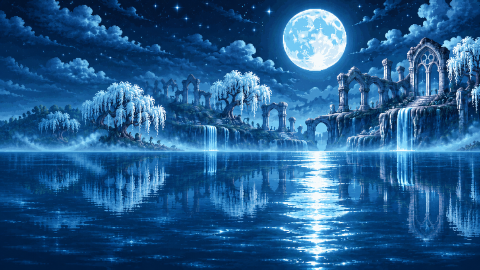
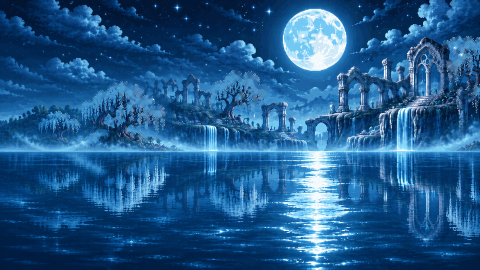
Moonlit Lake: the water ripples and the willows' hanging strands sway
- ripple: the far layer's lake (and its reflections) is redrawn in thin
  bands nudged sideways by a slow moving wave, gentler at the far shore.
- sway: the big willow's hanging curtain (near layer) and the far willow
  canopies are lifted out of their layers and swing, still at the top and
  most at the tips; gaps left in the solid far layer are filled from the
  surrounding leaves. tools/bgfx.py keeps untouched copies of every layer it
  edits in assets_raw/bg_layers/pristine and rebuilds from them.

diff --git a/assets/bgfx/bgfx.js b/assets/bgfx/bgfx.js
@@ -1,2 +1,2 @@
 // generated by tools/bgfx.py: what moves in each background (see FX there)
-window.BGFX = {"hall":[{"k":"sprite","L":1,"s":"banner_hall","fps":6,"cx":146,"top":42,"n":6},{"k":"sprite","L":1,"s":"banner_hall","fps":6,"cx":335,"top":42,"t0":0.4,"n":6},{"k":"drift","L":3,"s":"dust","fps":3,"count":14,"area":[0,10,480,220],"vx":3,"vy":-1.5,"wob":4,"a":0.55,"n":4}],"cave":[{"k":"flow","s":"waterflow","fps":10,"a":0.8,"L":1,"m":"mask_cave_0","r":[137,93,13,57],"n":6},{"k":"flow","s":"waterflow","fps":10,"a":0.8,"L":1,"m":"mask_cave_1","r":[155,162,17,51],"n":6},{"k":"flow","s":"waterflow","fps":10,"a":0.8,"L":1,"m":"mask_cave_2","r":[290,122,13,68],"n":6},{"k":"drift","L":2,"s":"firefly","fps":6,"count":10,"area":[20,40,440,170],"vx":2,"vy":-1,"wob":6,"a":0.28,"add":1,"sc":0.5,"tint":"hue-rotate(60deg)","n":4}],"crypt":[{"k":"scroll","L":2,"s":"fog","y":184,"speed":6,"a":0.45,"tint":"hue-rotate(250deg) saturate(0.8)","n":1},{"k":"drift","L":3,"s":"dust","fps":3,"count":14,"area":[0,10,480,220],"vx":3,"vy":-1.5,"wob":4,"a":0.55,"n":4}],"forge":[{"k":"flow","L":1,"s":"lavaflow","fps":9,"a":0.8,"m":"mask_forge_0","r":[186,62,36,107],"n":6},{"k":"flow","L":1,"s":"lavaflow","fps":9,"a":0.8,"m":"mask_forge_1","r":[290,148,44,115],"n":6},{"k":"flow","L":1,"s":"lavaflow","fps":9,"a":0.8,"m":"mask_forge_2","r":[298,112,44,44],"n":6},{"k":"flow","L":1,"s":"lavaflow","fps":9,"a":0.8,"m":"mask_forge_3","r":[363,167,72,89],"n":6},{"k":"flow","L":1,"s":"lavaflow","fps":9,"a":0.8,"m":"mask_forge_4","r":[120,218,41,33],"n":6},{"k":"flow","L":0,"s":"lavaflow","fps":9,"a":0.8,"m":"mask_forge_5","r":[194,75,25,64],"n":6},{"k":"flow","L":0,"s":"lavaflow","fps":9,"a":0.8,"m":"mask_forge_6","r":[242,114,18,17],"n":6},{"k":"drift","L":3,"s":"ember","fps":8,"count":34,"area":[0,60,480,210],"vx":2,"vy":-14,"wob":5,"a":0.9,"add":1,"n":4}],"hollow":[{"k":"scroll","L":0,"s":"fog","y":140,"speed":4,"a":0.5,"n":1},{"k":"scroll","L":1,"s":"fog","y":200,"speed":9,"a":0.4,"n":1},{"k":"drift","L":2,"s":"firefly","fps":5,"count":8,"area":[30,60,420,160],"vx":1,"vy":-1,"wob":8,"a":0.25,"add":1,"sc":0.5,"tint":"saturate(0.2) brightness(1.2)","n":4}],"sanctum":[{"k":"flow","L":0,"s":"runeflow","fps":8,"add":1,"m":"mask_sanctum_0","r":[282,32,111,116],"n":6},{"k":"scroll","L":1,"s":"fog","y":205,"speed":5,"a":0.4,"tint":"hue-rotate(240deg) saturate(1.3)","n":1},{"k":"drift","L":2,"s":"firefly","fps":6,"count":10,"area":[20,30,440,190],"vx":1,"vy":-3,"wob":5,"a":0.25,"add":1,"sc":0.5,"tint":"hue-rotate(220deg) saturate(1.4)","n":4}],"thornwood":[{"k":"scroll","L":0,"s":"fog","y":165,"speed":4,"a":0.35,"tint":"hue-rotate(70deg)","n":1},{"k":"drift","L":2,"s":"firefly","fps":6,"count":12,"area":[20,50,440,180],"vx":2,"vy":-1,"wob":7,"a":0.25,"add":1,"sc":0.5,"n":4}],"glade":[{"k":"flow","s":"waterflow","fps":10,"a":0.8,"L":1,"m":"mask_glade_0","r":[236,137,30,49],"n":6},{"k":"flow","s":"waterflow","fps":10,"a":0.8,"L":1,"m":"mask_glade_1","r":[292,105,28,73],"n":6},{"k":"flow","s":"waterflow","fps":10,"a":0.8,"L":1,"m":"mask_glade_2","r":[344,102,26,52],"n":6},{"k":"flow","s":"waterflow","fps":10,"a":0.8,"L":1,"m":"mask_glade_3","r":[291,186,26,38],"n":6},{"k":"drift","L":2,"s":"firefly","fps":6,"count":12,"area":[20,40,440,190],"vx":2,"vy":-1,"wob":7,"a":0.25,"add":1,"sc":0.5,"tint":"hue-rotate(280deg) saturate(1.2)","n":4},{"k":"drift","L":3,"s":"butterfly","fps":10,"count":4,"area":[40,90,400,130],"vx":8,"vy":0,"wob":10,"a":1,"n":4}],"lake":[{"k":"flow","s":"waterflow","fps":10,"a":0.8,"L":0,"m":"mask_lake_0","r":[192,116,36,42],"n":6},{"k":"flow","s":"waterflow","fps":10,"a":0.8,"L":0,"m":"mask_lake_1","r":[386,96,42,62],"n":6},{"k":"flow","L":0,"s":"moonflow","fps":6,"a":0.55,"add":1,"m":"mask_lake_2","r":[282,148,72,122],"n":6},{"k":"drift","L":0,"s":"cloud","fps":0,"count":4,"area":[0,6,480,60],"vx":2.5,"vy":0,"wob":0,"a":0.9,"n":4},{"k":"drift","L":1,"s":"firefly","fps":5,"count":10,"area":[60,140,360,60],"vx":1,"vy":-0.5,"wob":4,"a":0.25,"add":1,"sc":0.5,"tint":"hue-rotate(160deg) saturate(0.6)","n":4}],"camp":[{"k":"drift","L":3,"s":"dust","fps":3,"count":14,"area":[0,10,480,220],"vx":3,"vy":-1.5,"wob":4,"a":0.55,"n":4},{"k":"glow","L":1,"x":110,"y":190,"r":70,"c":"255,170,90","a":0.18,"period":3.2}],"boss":[{"k":"sprite","L":1,"s":"banner_boss","fps":6,"cx":140,"top":42,"n":6},{"k":"sprite","L":1,"s":"banner_boss","fps":6,"cx":340,"top":42,"t0":0.4,"n":6},{"k":"scroll","L":0,"s":"fog","y":200,"speed":7,"a":0.5,"tint":"hue-rotate(320deg) saturate(1.6) brightness(0.8)","n":1},{"k":"drift","L":3,"s":"ember","fps":8,"count":12,"area":[0,60,480,180],"vx":1,"vy":-8,"wob":5,"a":0.7,"add":1,"tint":"saturate(0.6) brightness(0.8)","n":4}],"yard":[{"k":"drift","L":0,"s":"cloud","fps":0,"count":5,"area":[0,6,480,70],"vx":3,"vy":0,"wob":0,"a":0.95,"n":4},{"k":"drift","L":3,"s":"butterfly","fps":10,"count":9,"area":[0,120,960,90],"vx":10,"vy":0,"wob":12,"a":1,"n":4}]};
+window.BGFX = {"hall":[{"k":"sprite","L":1,"s":"banner_hall","fps":6,"cx":146,"top":42,"n":6},{"k":"sprite","L":1,"s":"banner_hall","fps":6,"cx":335,"top":42,"t0":0.4,"n":6},{"k":"drift","L":3,"s":"dust","fps":3,"count":14,"area":[0,10,480,220],"vx":3,"vy":-1.5,"wob":4,"a":0.55,"n":4}],"cave":[{"k":"flow","s":"waterflow","fps":10,"a":0.8,"L":1,"m":"mask_cave_0","r":[137,93,13,57],"n":6},{"k":"flow","s":"waterflow","fps":10,"a":0.8,"L":1,"m":"mask_cave_1","r":[155,162,17,51],"n":6},{"k":"flow","s":"waterflow","fps":10,"a":0.8,"L":1,"m":"mask_cave_2","r":[290,122,13,68],"n":6},{"k":"drift","L":2,"s":"firefly","fps":6,"count":10,"area":[20,40,440,170],"vx":2,"vy":-1,"wob":6,"a":0.28,"add":1,"sc":0.5,"tint":"hue-rotate(60deg)","n":4}],"crypt":[{"k":"scroll","L":2,"s":"fog","y":184,"speed":6,"a":0.45,"tint":"hue-rotate(250deg) saturate(0.8)","n":1},{"k":"drift","L":3,"s":"dust","fps":3,"count":14,"area":[0,10,480,220],"vx":3,"vy":-1.5,"wob":4,"a":0.55,"n":4}],"forge":[{"k":"flow","L":1,"s":"lavaflow","fps":9,"a":0.8,"m":"mask_forge_0","r":[186,62,36,107],"n":6},{"k":"flow","L":1,"s":"lavaflow","fps":9,"a":0.8,"m":"mask_forge_1","r":[290,148,44,115],"n":6},{"k":"flow","L":1,"s":"lavaflow","fps":9,"a":0.8,"m":"mask_forge_2","r":[298,112,44,44],"n":6},{"k":"flow","L":1,"s":"lavaflow","fps":9,"a":0.8,"m":"mask_forge_3","r":[363,167,72,89],"n":6},{"k":"flow","L":1,"s":"lavaflow","fps":9,"a":0.8,"m":"mask_forge_4","r":[120,218,41,33],"n":6},{"k":"flow","L":0,"s":"lavaflow","fps":9,"a":0.8,"m":"mask_forge_5","r":[194,75,25,64],"n":6},{"k":"flow","L":0,"s":"lavaflow","fps":9,"a":0.8,"m":"mask_forge_6","r":[242,114,18,17],"n":6},{"k":"drift","L":3,"s":"ember","fps":8,"count":34,"area":[0,60,480,210],"vx":2,"vy":-14,"wob":5,"a":0.9,"add":1,"n":4}],"hollow":[{"k":"scroll","L":0,"s":"fog","y":140,"speed":4,"a":0.5,"n":1},{"k":"scroll","L":1,"s":"fog","y":200,"speed":9,"a":0.4,"n":1},{"k":"drift","L":2,"s":"firefly","fps":5,"count":8,"area":[30,60,420,160],"vx":1,"vy":-1,"wob":8,"a":0.25,"add":1,"sc":0.5,"tint":"saturate(0.2) brightness(1.2)","n":4}],"sanctum":[{"k":"flow","L":0,"s":"runeflow","fps":8,"add":1,"m":"mask_sanctum_0","r":[282,32,111,116],"n":6},{"k":"scroll","L":1,"s":"fog","y":205,"speed":5,"a":0.4,"tint":"hue-rotate(240deg) saturate(1.3)","n":1},{"k":"drift","L":2,"s":"firefly","fps":6,"count":10,"area":[20,30,440,190],"vx":1,"vy":-3,"wob":5,"a":0.25,"add":1,"sc":0.5,"tint":"hue-rotate(220deg) saturate(1.4)","n":4}],"thornwood":[{"k":"scroll","L":0,"s":"fog","y":165,"speed":4,"a":0.35,"tint":"hue-rotate(70deg)","n":1},{"k":"drift","L":2,"s":"firefly","fps":6,"count":12,"area":[20,50,440,180],"vx":2,"vy":-1,"wob":7,"a":0.25,"add":1,"sc":0.5,"n":4}],"glade":[{"k":"flow","s":"waterflow","fps":10,"a":0.8,"L":1,"m":"mask_glade_0","r":[236,137,30,49],"n":6},{"k":"flow","s":"waterflow","fps":10,"a":0.8,"L":1,"m":"mask_glade_1","r":[292,105,28,73],"n":6},{"k":"flow","s":"waterflow","fps":10,"a":0.8,"L":1,"m":"mask_glade_2","r":[344,102,26,52],"n":6},{"k":"flow","s":"waterflow","fps":10,"a":0.8,"L":1,"m":"mask_glade_3","r":[291,186,26,38],"n":6},{"k":"drift","L":2,"s":"firefly","fps":6,"count":12,"area":[20,40,440,190],"vx":2,"vy":-1,"wob":7,"a":0.25,"add":1,"sc":0.5,"tint":"hue-rotate(280deg) saturate(1.2)","n":4},{"k":"drift","L":3,"s":"butterfly","fps":10,"count":4,"area":[40,90,400,130],"vx":8,"vy":0,"wob":10,"a":1,"n":4}],"lake":[{"k":"ripple","L":0,"y0":150,"y1":270,"amp":1.2,"freq":0.45,"speed":2.0},{"k":"sway","L":2,"amp":2.2,"speed":1.3,"m":"sway_lake_0","r":[100,0,132,97]},{"k":"sway","L":0,"amp":0.7,"speed":1.1,"ph":1,"m":"sway_lake_1","r":[55,81,112,61]},{"k":"sway","L":0,"amp":0.6,"speed":1.2,"ph":2,"m":"sway_lake_2","r":[200,66,78,48]},{"k":"sway","L":0,"amp":0.6,"speed":1.0,"ph":3,"m":"sway_lake_3","r":[428,36,52,74]},{"k":"flow","s":"waterflow","fps":10,"a":0.8,"L":0,"m":"mask_lake_0","r":[192,116,36,42],"n":6},{"k":"flow","s":"waterflow","fps":10,"a":0.8,"L":0,"m":"mask_lake_1","r":[386,96,42,62],"n":6},{"k":"flow","L":0,"s":"moonflow","fps":6,"a":0.55,"add":1,"m":"mask_lake_2","r":[282,148,72,122],"n":6},{"k":"drift","L":0,"s":"cloud","fps":0,"count":4,"area":[0,6,480,60],"vx":2.5,"vy":0,"wob":0,"a":0.9,"n":4},{"k":"drift","L":1,"s":"firefly","fps":5,"count":10,"area":[60,140,360,60],"vx":1,"vy":-0.5,"wob":4,"a":0.25,"add":1,"sc":0.5,"tint":"hue-rotate(160deg) saturate(0.6)","n":4}],"camp":[{"k":"drift","L":3,"s":"dust","fps":3,"count":14,"area":[0,10,480,220],"vx":3,"vy":-1.5,"wob":4,"a":0.55,"n":4},{"k":"glow","L":1,"x":110,"y":190,"r":70,"c":"255,170,90","a":0.18,"period":3.2}],"boss":[{"k":"sprite","L":1,"s":"banner_boss","fps":6,"cx":140,"top":42,"n":6},{"k":"sprite","L":1,"s":"banner_boss","fps":6,"cx":340,"top":42,"t0":0.4,"n":6},{"k":"scroll","L":0,"s":"fog","y":200,"speed":7,"a":0.5,"tint":"hue-rotate(320deg) saturate(1.6) brightness(0.8)","n":1},{"k":"drift","L":3,"s":"ember","fps":8,"count":12,"area":[0,60,480,180],"vx":1,"vy":-8,"wob":5,"a":0.7,"add":1,"tint":"saturate(0.6) brightness(0.8)","n":4}],"yard":[{"k":"drift","L":0,"s":"cloud","fps":0,"count":5,"area":[0,6,480,70],"vx":3,"vy":0,"wob":0,"a":0.95,"n":4},{"k":"drift","L":3,"s":"butterfly","fps":10,"count":9,"area":[0,120,960,90],"vx":10,"vy":0,"wob":12,"a":1,"n":4}]};

diff --git a/index.html b/index.html
@@ -68,7 +68,7 @@ const ART_FILES = {
   items: ['pet_fox', 'pet_owl', 'pet_ferret', 'pet_boar', 'pet_toad', 'shortbow', 'greatsword', 'warhammer', 'towershield', 'torc', 'banner', 'breastplate', 'bgauntlet', 'giantbelt', 'lionheart', 'dragonslayer', 'longbow', 'bodkin', 'twinquiver', 'frostarrows', 'blastarrows', 'hawkeye', 'bracer', 'rangercloak', 'fletching', 'starfall', 'venom', 'kris', 'shadowcloak', 'knives', 'lockpicks', 'duelist', 'shadowstep', 'bloodring', 'rmask', 'nightfang', 'barbwhip', 'alphahorn', 'collar', 'totem', 'poultice', 'falconglove', 'whistle', 'wolfcloak', 'bearclaw', 'crown', 'pet_dog', 'pet_catgray', 'pet_catcalico', 'pet_cockatiel', 'pet_dragon', 'wings', 'phoenix', 'treats', 'hourglass', 'lantern', 'dagger', 'arrows', 'sword', 'axe', 'spear', 'bow', 'gloves', 'shield', 'helm', 'chain', 'spiked', 'boots', 'potion', 'bomb', 'bread', 'heart', 'whetstone', 'charm', 'fang', 'clover', 'spikes', 'chewbone', 'clawfile', 'vest', 'blanket', 'incubator', 'harness', 'bell', 'huntmark', 'squeaky', 'catnip', 'cuttlebone', 'heatrock', 'bogmoss', 'truffle', 'nightshade', 'hexcharm', 'healbell', 'dragonheart', 'alphafang', 'salve', 'herb', 'salts', 'brew', 'smoke', 'net', 'egg_cockatiel', 'egg_owl', 'egg_toad', 'egg_dragon', 'egg_elder', 'horseshoe', 'glownectar', 'embertotem', 'boneflute', 'serpenttorc', 'antlercrown', 'saddlebag', 'buckler', 'windchimes', 'huntinghorn', 'emberring', 'wishbone', 'egg_phoenix', 'egg_salamander', 'egg_tortoise', 'egg_moth', 'egg_fairydragon', 'egg_viper', 'egg_sunday'],
   chars: ['hero', 'slime', 'bat', 'skeleton', 'archer', 'ghost', 'brute', 'boss'].flatMap(n => [n + '_idle', n + '_attack']),
   props: ['friend_post', 'hub_banner_warrior', 'hub_banner_archer', 'hub_banner_rogue', 'hub_banner_beastmaster', 'hub_mirror', 'hub_board', 'hub_petbed', 'barrier', 'cage', 'cage_open', 'plant_bloodberry', 'plant_ember', 'plant_stone', 'plant_swift', 'plant_catnip', 'plant_mandrake', 'chest_secret', 'spikes', 'crumble', 'vent', 'chest_gold', 'chest_closed', 'chest_open', 'campfire', 'torch', 'gate', 'ledge', 'tombstone', 'arrow', 'mushrooms', 'candle', 'bones', 'chain', 'thorns', 'shroom', 'vine', 'door_wardrobe', 'door_records', 'door_den', 'door_out', 'nest', 'pedestal', 'trophy_shelf', 'dye_rack', 'sparkle_0', 'sparkle_1', 'sparkle_2', 'sparkle_3', 'sanct_house'],
-  bgfx: [...new Set(Object.values(window.BGFX || {}).flat().flatMap(e => [e.s, e.m]).filter(Boolean))],
+  bgfx: [...new Set(Object.values(window.BGFX || {}).flat().flatMap(e => [e.s, e.m]).filter(Boolean))],   // strips, masks and swaying parts
   bg: ['hall', 'cave', 'crypt', 'camp', 'boss', 'forge', 'hollow', 'sanctum', 'hub', 'thornwood', 'glade', 'lake', 'yard', 'wardrobe', 'records'].concat(BG_LAYERED.flatMap(k => [k + '_far', k + '_mid', k + '_near'])).concat(['yard_far', 'yard_fields', 'yard_fence', 'yard_grass']),
   anim: Object.keys(window.ANIMS || {}).concat(window.LOOKS ? window.LOOKS.masks.map(n => n + '_skin').concat(Object.entries(window.LOOKS.hair).flatMap(([h, v]) => Object.keys(v).map(w => 'hair_' + h + '_' + w))) : []),   // + skin masks and hair pieces (Wardrobe)
   ui: ['panel_leather', 'panel_parch', 'btn', 'btn_hover', 'btn_off', 'slot', 'banner', 'seal'],
@@ -3138,6 +3138,18 @@ function drawBgFx(area, layer, tf) {
     } else if (e.k === 'scroll') {   // a seamless strip (fog) sliding sideways across the whole layer
       const w = img.width, off = ((TIME * e.speed) % w + w) % w;
       for (let x = -off; x < 480; x += w) ctx.drawImage(img, Math.round(tf.x + x * sx), Math.round(tf.y + e.y * sy), Math.round(w * sx) + 1, Math.round(img.height * sy));
+    } else if (e.k === 'ripple') {   // the layer's own water, redrawn in thin bands nudged sideways by a moving wave
+      const lim = art('bg/' + area + '_' + ['far', 'mid', 'near'][e.L]);
+      if (lim) for (let y = e.y0; y < e.y1; y += 2) {
+        const depth = (y - e.y0) / (e.y1 - e.y0), dx = e.amp * (0.35 + 0.65 * depth) * Math.sin(y * e.freq - TIME * e.speed);
+        ctx.drawImage(lim, 0, y, lim.width, 2, tf.x + dx * sx, tf.y + y * sy, lim.width * sx, 2 * sy);
+      }
+    } else if (e.k === 'sway') {   // hanging strands lifted out of the layer: still at the top, swinging most at the tips
+      const part = art('bgfx/' + e.m);
+      if (part) { const [rx, ry, rw, rh] = e.r; for (let y = 0; y < rh; y += 2) {
+        const t = y / rh, dx = e.amp * Math.pow(t, 1.4) * Math.sin(TIME * e.speed + (e.ph || 0) + y * 0.04);
+        ctx.drawImage(part, 0, y, rw, 2, tf.x + (rx + dx) * sx, tf.y + (ry + y) * sy, rw * sx, 2 * sy);
+      } }
     } else if (e.k === 'glow') {   // a soft light that breathes
       const k = 0.6 + 0.4 * Math.sin(TIME * Math.PI * 2 / (e.period || 3)), cx = tf.x + e.x * sx, cy = tf.y + e.y * sy, r = e.r * sx;
       const gr = ctx.createRadialGradient(cx, cy, 0, cx, cy, r); gr.addColorStop(0, `rgba(${e.c},${(e.a || 0.2) * k})`); gr.addColorStop(1, `rgba(${e.c},0)`);

diff --git a/tools/bgfx.py b/tools/bgfx.py
@@ -57,7 +57,9 @@ def build(name, n, height, green=False, keep_bg=False, body=None, out_name=None,
 # all three). Kinds: flow (an animated texture tiled inside the art's own pixels: lava, waterfalls, moonlight, runes; the
 # mask is made here from the layer's colours inside the rect), sprite (frames at a spot; cut = where the still art is
 # erased so the moving one replaces it), drift (particles that float about), scroll (a seamless strip sliding sideways),
-# glow (a soft light that breathes).
+# glow (a soft light that breathes), ripple (rows y0..y1 of the layer itself redrawn with a small moving sideways wave:
+# water and its reflections waver; amp in background pixels, bigger toward y1), sway (pixels matching rule in rect are lifted
+# out of the layer and swing sideways, still at the top and most at the bottom: hanging willow strands).
 # ---------------------------------------------------------------------------------------------------------------------
 RULES = {
     'lava': lambda r, g, b: r > 175 and g > 60 and b < 110 and r - b > 100,
@@ -65,6 +67,8 @@ RULES = {
     'cavewater': lambda r, g, b: g > 118 and b > r + 12 and g >= b,   # the cave's muted teal falls
     'moon': lambda r, g, b: (r + g + b) / 3 > 150,
     'rune': lambda r, g, b: r > 130 and b > 165 and g < 170 and b - g > 40,
+    'leaf': lambda r, g, b: (r + g + b) / 3 > 150 and b >= r + 5,   # the lake willows' pale hanging strands
+    'all': lambda r, g, b: True,
 }
 STRIPS = {   # sheet name: (raw strip fx_<name>.png, frames, height in background pixels, options)
     'lavaflow': ('lavafall', 6, 48, dict(body=(0.3, 0.7, 0.2, 0.78), tile=True)),
@@ -102,7 +106,12 @@ FX = {
     'glade': [dict(W_([236, 134, 30, 52]), L=1), dict(W_([292, 104, 28, 76]), L=1), dict(W_([344, 98, 26, 56]), L=1), dict(W_([291, 180, 26, 44]), L=1),
               dict(k='drift', L=2, s='firefly', fps=6, count=12, area=[20, 40, 440, 190], vx=2, vy=-1, wob=7, a=0.25, add=1, sc=0.5, tint='hue-rotate(280deg) saturate(1.2)'),   # faint little fireflies
               dict(k='drift', L=3, s='butterfly', fps=10, count=4, area=[40, 90, 400, 130], vx=8, vy=0, wob=10, a=1)],
-    'lake': [dict(W_([192, 116, 36, 42]), L=0), dict(W_([386, 96, 42, 62]), L=0),
+    'lake': [dict(k='ripple', L=0, y0=150, y1=270, amp=1.2, freq=0.45, speed=2.0),   # the lake surface (and its reflections) waver gently
+             dict(k='sway', L=2, rule='all', rect=[100, 0, 140, 112], amp=2.2, speed=1.3),   # the big willow's hanging curtain (right of the trunk)
+             dict(k='sway', L=0, rule='leaf', rect=[55, 78, 112, 64], amp=0.7, speed=1.1, ph=1),   # the far willow islands, gently
+             dict(k='sway', L=0, rule='leaf', rect=[200, 66, 78, 48], amp=0.6, speed=1.2, ph=2),
+             dict(k='sway', L=0, rule='leaf', rect=[428, 30, 52, 80], amp=0.6, speed=1.0, ph=3),
+             dict(W_([192, 116, 36, 42]), L=0), dict(W_([386, 96, 42, 62]), L=0),
              dict(k='flow', L=0, s='moonflow', fps=6, rule='moon', rect=[282, 148, 72, 122], a=0.55, add=1),   # sparkles added as light over the moon path
              dict(k='drift', L=0, s='cloud', fps=0, count=4, area=[0, 6, 480, 60], vx=2.5, vy=0, wob=0, a=0.9),
              dict(k='drift', L=1, s='firefly', fps=5, count=10, area=[60, 140, 360, 60], vx=1, vy=-0.5, wob=4, a=0.25, add=1, sc=0.5, tint='hue-rotate(160deg) saturate(0.6)')],   # faint little lights over the water
@@ -134,9 +143,47 @@ def mask(area, layer, rect, rule):
     return n, [x + bb[0], y + bb[1], bb[2] - bb[0], bb[3] - bb[1]]
 
 
+PRISTINE = os.path.join(ROOT, 'assets_raw', 'bg_layers', 'pristine')
+
+
+def layer_path(area, layer):
+    """The layer file; the first time a layer is edited here an untouched copy is kept, and every build starts from it."""
+    names = ['far', 'mid', 'near']; p = os.path.join(ROOT, 'assets', 'bg', f'{area}_{names[layer]}.png')
+    keep = os.path.join(PRISTINE, f'{area}_{names[layer]}.png'); os.makedirs(PRISTINE, exist_ok=True)
+    if not os.path.exists(keep): Image.open(p).save(keep)
+    return p, keep
+
+
+def sway_cut(area, layer, rect, rule):
+    """Lift the pixels matching rule inside rect out of the layer into their own image (bgfx/sway_<area>_<k>), so the
+    game can sway them without the still copy showing underneath."""
+    p, _ = layer_path(area, layer); im = Image.open(p).convert('RGBA'); px = im.load()
+    x, y, w, h = rect; part = Image.new('RGBA', (w, h)); pp = part.load(); test = RULES[rule]; gone = set()
+    for j in range(h):
+        for i in range(w):
+            X, Y = x + i, y + j
+            if 0 <= X < im.width and 0 <= Y < im.height:
+                r, g, b, a = px[X, Y]
+                if a > (0 if rule == 'all' else 60) and test(r, g, b): pp[i, j] = (r, g, b, a); px[X, Y] = (0, 0, 0, 0); gone.add((X, Y))
+    # fill the gaps they leave from the darker leaves and sky around them, so nothing shows through as they swing
+    for _ in range(12 if rule != 'all' else 0):   # (a see-through layer just keeps its gaps: what's behind shows, as it should)
+        filled = {}
+        for X, Y in gone:
+            near = [px[X + dx, Y + dy] for dx in (-1, 0, 1) for dy in (-1, 0, 1) if (dx or dy) and 0 <= X + dx < im.width and 0 <= Y + dy < im.height
+                    and (X + dx, Y + dy) not in gone and px[X + dx, Y + dy][3] > 200]
+            if len(near) >= 2: filled[(X, Y)] = tuple(sum(c[k] for c in near) // len(near) for k in range(3)) + (255,)
+        if not filled: break
+        for q, c in filled.items(): px[q] = c; gone.discard(q)
+    bb = part.getbbox()
+    if not bb: raise SystemExit(f'nothing to sway {area} {rect}')
+    k = sum(1 for f in os.listdir(OUT) if f.startswith(f'sway_{area}_'))
+    n = f'sway_{area}_{k}'; part.crop(bb).save(os.path.join(OUT, n + '.png')); im.save(p)
+    return n, [x + bb[0], y + bb[1], bb[2] - bb[0], bb[3] - bb[1]]
+
+
 def cut(area, layer, rect, keep_top=0):
     """Erase the still art inside rect (below keep_top rows) so a moving version can replace it."""
-    names = ['far', 'mid', 'near']; p = os.path.join(ROOT, 'assets', 'bg', f'{area}_{names[layer]}.png')
+    p, _ = layer_path(area, layer)
     im = Image.open(p).convert('RGBA'); px = im.load(); x, y, w, h = rect
     for j in range(keep_top, h):
         for i in range(w):
@@ -147,7 +194,9 @@ def cut(area, layer, rect, keep_top=0):
 def write_js():
     import json
     for f in os.listdir(OUT):
-        if f.startswith('mask_'): os.remove(os.path.join(OUT, f))
+        if f.startswith('mask_') or f.startswith('sway_'): os.remove(os.path.join(OUT, f))
+    if os.path.isdir(PRISTINE):   # every cut starts again from the untouched layers
+        for f in os.listdir(PRISTINE): Image.open(os.path.join(PRISTINE, f)).save(os.path.join(ROOT, 'assets', 'bg', f))
     frames = {}
     for name, (src, n, h, opt) in STRIPS.items():
         if os.path.exists(os.path.join(RAW, f'fx_{src}.png')): frames[name] = build(src, n, h, out_name=name, **opt)
@@ -159,6 +208,7 @@ def write_js():
             if e.get('s') and e['s'] not in frames: continue          # its strip isn't made yet
             if e['k'] == 'flow': e['m'], e['r'] = mask(area, e['L'], e.pop('rect'), e.pop('rule'))
             if e.get('cut'): cut(area, e['L'], e['cut'], e.pop('keepTop', 0)); e.pop('cut')
+            if e['k'] == 'sway': e['m'], e['r'] = sway_cut(area, e['L'], e.pop('rect'), e.pop('rule'))
             if e.get('s'): e['n'] = frames[e['s']]
             out[area].append(e)
     with open(os.path.join(OUT, 'bgfx.js'), 'w') as fh:
